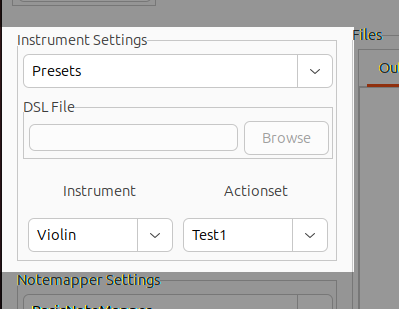
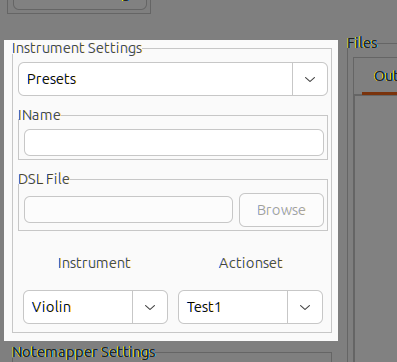
Updated GUI guide with new instrument name section. Fixed instrument name label in the GUI.

Changed region(s): [[0.0, 0.0, 1.0, 1.0]]

diff --git a/webdocs/mfpg/guides/guiguide.html b/webdocs/mfpg/guides/guiguide.html
@@ -178,6 +178,9 @@
         instrument preset so far and the actionset presets are simple actionsets 
         primarily used for testing. The implementation of these actionsets can be found in
         the GitHub repo in the <strong>src/configs.h</strong> file.</p>
+        <p>Additionally, the instrument name has to be specified here. This name should correspond exactly
+        to the name of the instrument part in the score (i.e "Violin 1", or "Viola" depending on what they
+        are named in the score.).</p>
         <a class="anchor" id="Notemapper"></a>
         <h2>Notemapper Settings</h2>
         <p align="left">

diff --git a/src/gui/MFPG_Gui.cpp b/src/gui/MFPG_Gui.cpp
@@ -18,7 +18,7 @@ bool MFPG_Gui::OnInit() {
 	MFPG_Frame *frame;
 	for (auto s : xrc_locations) {
 		xrc_stream.open(s); //Check to see if file exists
-		if (xrc_stream.is_open() && false) {
+		if (xrc_stream.is_open()) {
 			xrc_stream.close();
 			wxXmlResource::Get()->InitAllHandlers();
 			wxXmlResource::Get()->Load(s);
